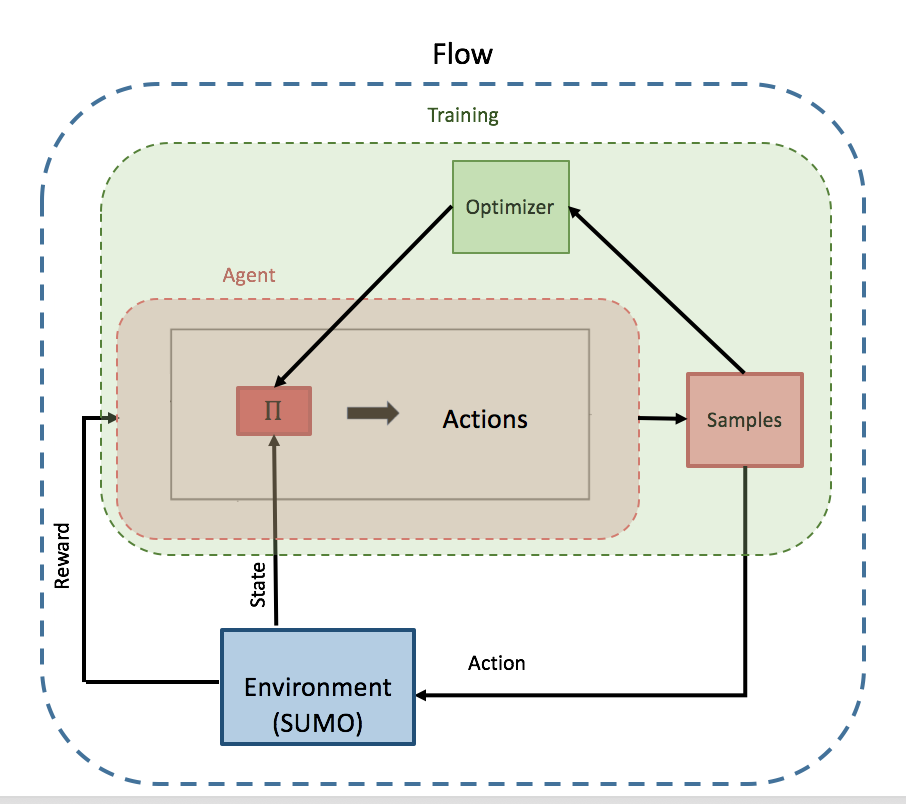
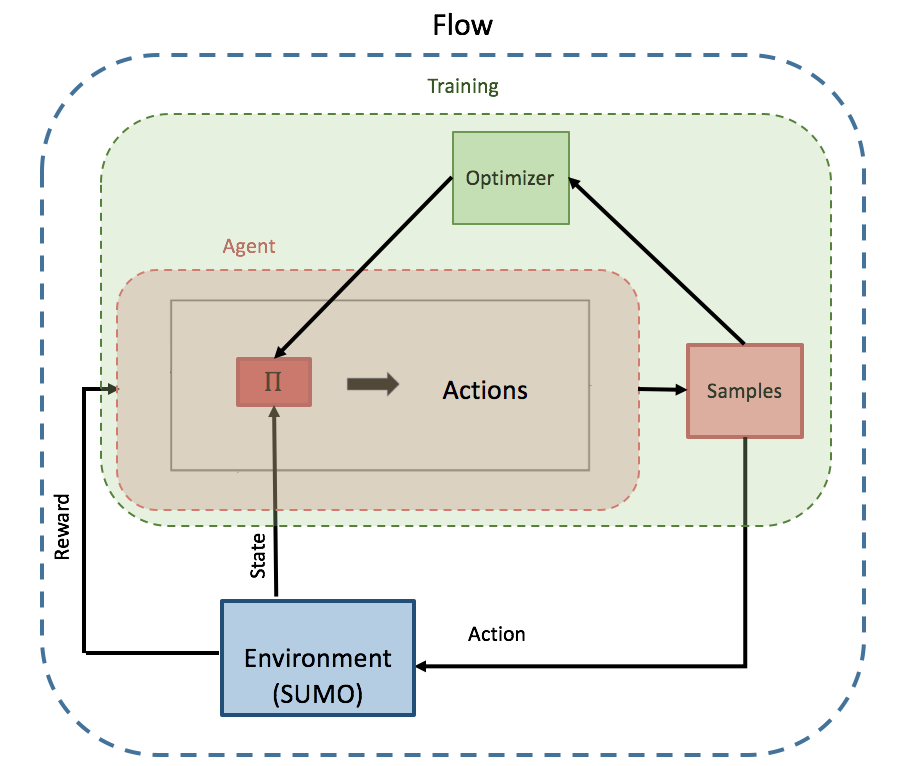
Frontpage redesign (#1)
* adding back process diagrams

* removing a line

* cropped image

* removed background and some prettification

* descriptions on homepage

* Added references, modified some wording and capitalization

diff --git a/index.html b/index.html
@@ -15,11 +15,12 @@
   <!-- Global site tag (gtag.js) - Google Analytics -->
   <script async src="https://www.googletagmanager.com/gtag/js?id=UA-124124439-1"></script>
   <script>
-    window.dataLayer = window.dataLayer || [];
-    function gtag(){dataLayer.push(arguments);}
-    gtag('js', new Date());
+  window.dataLayer = window.dataLayer || [];
 
-    gtag('config', 'UA-124124439-1');
+  function gtag() { dataLayer.push(arguments); }
+  gtag('js', new Date());
+
+  gtag('config', 'UA-124124439-1');
   </script>
 </head>
 
@@ -58,11 +59,11 @@
     </div>
   </nav>
   <main role="main" class="container">
-    <div class="starter-template" style="background:transparent url('figures/img/dark_highway_blur_crop.png') no-repeat center center /cover">
-      <font color="white">
-      <h1>Flow: a deep reinforcement learning framework for mixed-autonomy traffic</h1>
+    <!-- <div class="starter-template" style="background:transparent url('figures/img/dark_highway_blur_crop.png') no-repeat center center /cover"> -->
+    <div class="starter-template">
+      <h1>Flow: a deep reinforcement learning framework for mixed autonomy traffic</h1>
       <p class="lead">
-        Flow leverages state-of-the-art deep RL libraries and the open-source microsimulator, SUMO, enabling the use of reinforcement learning to design and train controllers in traffic settings.
+        Flow leverages state-of-the-art deep reinforcement learning (RL) libraries and microsimulator SUMO, enabling the use of RL to design, train, and evaluate controllers in traffic settings. Flow is open source.
         <!-- [expand a bit more?] -->
       </p>
       <!-- <h3>Mixed-Autonomy Traffic: The Near Future</h3>
@@ -75,20 +76,43 @@
         [a video?]
 
         <br> <br> -->
-
-        <p>
-          Flow was developed at the University of California, Berkeley.
-        </p>
-      </font>
+      <p>
+        Flow is developed at the University of California, Berkeley.
+      </p>
     </div>
-      <h1>Results</h1>
-      <p class="lead">Successful controllers developed with Flow. For more details check out our <a href="gallery.html">gallery</a>.
-      </p> 
-
+    <div class="container">
+      <div class="row">
+        <div class="col-xl-6">
+          <figure>
+            <img class="img-fluid frontpageimg" alt="Flow process diagram" style="display:block; margin:auto" src="figures/experiments/flow_process_diagram_2.png">
+            <figcaption class="small text-center">The various components of Flow.</figcaption>
+          </figure>
+        </div>
+        <div class="col-xl-6">
+          <figure>
+            <img class="img-fluid frontpageimg" alt="Flow training process" style="display:block; margin:auto" src="figures/experiments/flow_diag_gauss_2.png">
+            <figcaption class="small text-center">The Flow training and evaluation process.</figcaption>
+          </figure>
+        </div>
+      </div>
+    </div>
+    <hr>
+    <h1>Results</h1>
+    <p class="lead">
+      The following are successful controllers developed with Flow. For more details visit our <a href="gallery.html">gallery</a>.
+    </p>
     <div class="container">
       <div class="row">
         <!-- should these be centered? -->
-        <h2>Phantom Shockwave Dissipation on a Ring</h2>
+        <h2>Phantom shockwave dissipation on a ring</h2>
+      </div>
+      <div class="row">
+        <p>
+        Inspired by the famous <a href="https://www.youtube.com/watch?v=7wm-pZp_mi0">2008 Sugiyama experiment</a> demonstrating spontaneous formation of traffic shockwaves (reproduced on the left video), and a <a href="https://www.youtube.com/watch?v=2mBjYZTeaTc">2017 field study</a> demonstrating the ability of AVs to suppress shockwaves, we investigated the ability of reinforcement learning to train an <b>optimal</b> shockwave dissipating controller.
+        </p>
+        <p>
+          In the right video, we learn a controller (policy) for one out of 22 vehicles. By training on ring roads of varying lengths, and using a neural network policy with memory, we were able to learn a controller that both was optimal (in terms of average system velocity) and generalized outside of the training distribution.
+        </p>
       </div>
       <div class="row">
         <div class="col-xl-6">
@@ -99,9 +123,16 @@
         </div>
       </div>
       <hr>
-      <br>
       <div class="row">
         <h2 class="text-center">Intersection control</h2>
+      </div>
+      <div class="row">
+        <p>
+          We demonstrated also the ability of a single autonomous vehicle to control the relative spacing of vehicles following behind it to create an optimal merge at an intersection.
+        </p>
+        <p>
+          As can be seen in the videos, without any AVs, the vehicles are stopped at the intersection by vehicles in the other direction; we show that even at low penetration rates, the autonomous vehicle "bunches" all of the other vehicles to avoid the intersection, resulting in a huge speed improvement.
+        </p>
       </div>
       <div class="row">
         <div class="col-xl-6">
@@ -112,15 +143,14 @@
         </div>
       </div>
       <hr>
-      <br>
-            <div class="row">
+      <div class="row">
         <h2 class="text-center">Bottleneck control</h2>
       </div>
       <div class="row">
-        <p class="lead"> Inspired by the rapid decrease in lanes on the San Francisco-Oakland Bay Bridge, we study a bottleneck that merges from four lanes down to two to one. </p>
+        <p> Inspired by the rapid decrease in lanes on the San Francisco-Oakland Bay Bridge, we study a bottleneck that merges from four lanes down to two to one. </p>
       </div>
       <div class="row">
-        <p class="lead"> We demonstrate that the AVs are able to learn a strategy that increases the effective outflow at high inflows, and performs competitively with ramp metering. </p>
+        <p> We demonstrate that the AVs are able to learn a strategy that increases the effective outflow at high inflows, and performs competitively with ramp metering. </p>
       </div>
       <div class="row">
         <div class="col-lg-6">
@@ -156,6 +186,14 @@
         <h2 class="text-center">On-ramp shockwave dissipation</h2>
       </div>
       <div class="row">
+        <p>
+          We demonstrate the ability of shockwave dissipation, previously demonstrated on a ring to scale to an actual highway situation. Vehicles travelling on a highway are perturbed by an aggressive on-ramp merge that the autonomous vehicle needs to dissipate.
+        </p>
+        <p>
+          As can be seen in the videos, the autonomous vehicle learns to slow its following vehicles to either avoid the perturbation or smooth its effects.
+        </p>
+      </div>
+      <div class="row">
         <div class="col-xl-6">
           <iframe width="533" height="300" src="https://www.youtube.com/embed/RPBAZH3Z0Sk?rel=0" frameborder="0" allow="autoplay; encrypted-media" allowfullscreen></iframe>
         </div>
@@ -164,11 +202,9 @@
         </div>
       </div>
     </div>
-
-
-    </main><!-- /.container -->
-
-    <!-- Bootstrap core JavaScript
+  </main>
+  <!-- /.container -->
+  <!-- Bootstrap core JavaScript
       <p>
         Flow was developed at the University of California, Berkeley.
       </p>

diff --git a/gallery.html b/gallery.html
@@ -159,7 +159,7 @@
         <h2 class="text-center">On-ramp shockwave dissipation</h2>
       </div>
       <div class="row">
-        <p class="lead"> In this work, we demonstrate the ability of shockwave dissipation, previously demonstrated on a ring to scale to an actual highway situation. Vehicles travelling on a highway are purturbed by an aggressive on-ramp merge that the autonomous vehicle needs to dissipate.</p>
+        <p class="lead"> In this work, we demonstrate the ability of shockwave dissipation, previously demonstrated on a ring to scale to an actual highway situation. Vehicles travelling on a highway are perturbed by an aggressive on-ramp merge that the autonomous vehicle needs to dissipate.</p>
       </div>
       <div class="row">
         <p class="lead"> As can be seen in the videos, the autonomous vehicle learns to slow its following vehicles to either avoid the perturbation or smooth its effects. </p>

diff --git a/starter-template.css b/starter-template.css
@@ -21,3 +21,7 @@ body {
 .result {
   max-height: 400px;
 }
+
+.frontpageimg {
+	height: 350px;
+}
